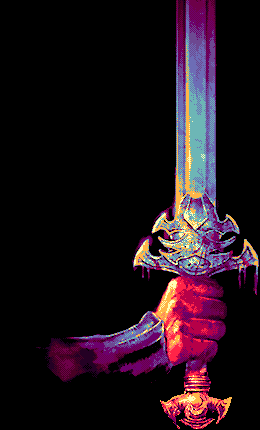
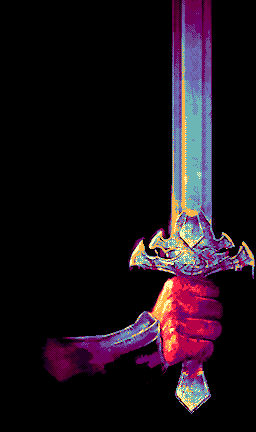
- Barbarian intro :  * aggressive optimization applied to the intro screen bitmaps (tiles budget was cut by half)  * added a title sprite using the famous Karafonts.

Changed region(s): [[0.1562, 0.0, 1.0, 0.9977]]

diff --git a/pirate_intro/src/easing_table.c b/pirate_intro/src/easing_table.c
@@ -1,0 +1,67 @@
+#include <genesis.h>
+
+const u16 easing_table[] =
+{
+	0, 	0, 	0, 	0, 	0, 	0, 	0, 	0, 	0, 	0, 	0, 	0, 	0, 	0, 	0, 	0, 	0, 	0, 
+	0, 	1, 	1, 	1, 	1, 	1, 	1, 	1, 	1, 	2, 	2, 	2, 	2, 	2, 	2, 	3, 	3, 
+	3, 	3, 	3, 	4, 	4, 	4, 	4, 	5, 	5, 	5, 	5, 	6, 	6, 	6, 	6, 	7, 	7, 
+	7, 	7, 	8, 	8, 	8, 	9, 	9, 	9, 	10, 	10, 	10, 	11, 	11, 	11, 	12, 	12, 	12, 
+	13, 	13, 	14, 	14, 	14, 	15, 	15, 	16, 	16, 	16, 	17, 	17, 	18, 	18, 	19, 	19, 	19, 
+	20, 	20, 	21, 	21, 	22, 	22, 	23, 	23, 	24, 	24, 	25, 	25, 	26, 	26, 	27, 	27, 	28, 
+	28, 	29, 	30, 	30, 	31, 	31, 	32, 	32, 	33, 	34, 	34, 	35, 	35, 	36, 	37, 	37, 	38, 
+	38, 	39, 	40, 	40, 	41, 	42, 	42, 	43, 	44, 	44, 	45, 	45, 	46, 	47, 	48, 	48, 	49, 
+	50, 	50, 	51, 	52, 	52, 	53, 	54, 	55, 	55, 	56, 	57, 	57, 	58, 	59, 	60, 	60, 	61, 
+	62, 	63, 	64, 	64, 	65, 	66, 	67, 	67, 	68, 	69, 	70, 	71, 	72, 	72, 	73, 	74, 	75, 
+	76, 	76, 	77, 	78, 	79, 	80, 	81, 	82, 	82, 	83, 	84, 	85, 	86, 	87, 	88, 	89, 	89, 
+	90, 	91, 	92, 	93, 	94, 	95, 	96, 	97, 	98, 	99, 	100, 	100, 	101, 	102, 	103, 	104, 	105, 
+	106, 	107, 	108, 	109, 	110, 	111, 	112, 	113, 	114, 	115, 	116, 	117, 	118, 	119, 	120, 	121, 	122, 
+	123, 	124, 	125, 	126, 	127, 	128, 	129, 	130, 	131, 	132, 	133, 	134, 	135, 	137, 	138, 	139, 	140, 
+	141, 	142, 	143, 	144, 	145, 	146, 	147, 	148, 	149, 	151, 	152, 	153, 	154, 	155, 	156, 	157, 	158, 
+	160, 	161, 	162, 	163, 	164, 	165, 	166, 	167, 	169, 	170, 	171, 	172, 	173, 	174, 	176, 	177, 	178, 
+	179, 	180, 	181, 	183, 	184, 	185, 	186, 	187, 	189, 	190, 	191, 	192, 	193, 	195, 	196, 	197, 	198, 
+	199, 	201, 	202, 	203, 	204, 	205, 	207, 	208, 	209, 	210, 	212, 	213, 	214, 	215, 	217, 	218, 	219, 
+	220, 	222, 	223, 	224, 	225, 	227, 	228, 	229, 	231, 	232, 	233, 	234, 	236, 	237, 	238, 	240, 	241, 
+	242, 	243, 	245, 	246, 	247, 	249, 	250, 	251, 	253, 	254, 	255, 	257, 	258, 	259, 	261, 	262, 	263, 
+	265, 	266, 	267, 	269, 	270, 	271, 	273, 	274, 	275, 	277, 	278, 	279, 	281, 	282, 	283, 	285, 	286, 
+	287, 	289, 	290, 	292, 	293, 	294, 	296, 	297, 	298, 	300, 	301, 	303, 	304, 	305, 	307, 	308, 	310, 
+	311, 	312, 	314, 	315, 	316, 	318, 	319, 	321, 	322, 	324, 	325, 	326, 	328, 	329, 	331, 	332, 	333, 
+	335, 	336, 	338, 	339, 	340, 	342, 	343, 	345, 	346, 	348, 	349, 	350, 	352, 	353, 	355, 	356, 	358, 
+	359, 	361, 	362, 	363, 	365, 	366, 	368, 	369, 	371, 	372, 	374, 	375, 	376, 	378, 	379, 	381, 	382, 
+	384, 	385, 	387, 	388, 	390, 	391, 	392, 	394, 	395, 	397, 	398, 	400, 	401, 	403, 	404, 	406, 	407, 
+	409, 	410, 	412, 	413, 	415, 	416, 	417, 	419, 	420, 	422, 	423, 	425, 	426, 	428, 	429, 	431, 	432, 
+	434, 	435, 	437, 	438, 	440, 	441, 	443, 	444, 	446, 	447, 	449, 	450, 	452, 	453, 	455, 	456, 	458, 
+	459, 	461, 	462, 	464, 	465, 	467, 	468, 	470, 	471, 	473, 	474, 	476, 	477, 	479, 	480, 	482, 	483, 
+	485, 	486, 	488, 	489, 	491, 	492, 	494, 	495, 	497, 	498, 	500, 	501, 	503, 	504, 	506, 	507, 	509, 
+	510, 	512, 	513, 	514, 	516, 	517, 	519, 	520, 	522, 	523, 	525, 	526, 	528, 	529, 	531, 	532, 	534, 
+	535, 	537, 	538, 	540, 	541, 	543, 	544, 	546, 	547, 	549, 	550, 	552, 	553, 	555, 	556, 	558, 	559, 
+	561, 	562, 	564, 	565, 	567, 	568, 	570, 	571, 	573, 	574, 	576, 	577, 	579, 	580, 	582, 	583, 	585, 
+	586, 	588, 	589, 	591, 	592, 	594, 	595, 	597, 	598, 	600, 	601, 	603, 	604, 	606, 	607, 	608, 	610, 
+	611, 	613, 	614, 	616, 	617, 	619, 	620, 	622, 	623, 	625, 	626, 	628, 	629, 	631, 	632, 	633, 	635, 
+	636, 	638, 	639, 	641, 	642, 	644, 	645, 	647, 	648, 	649, 	651, 	652, 	654, 	655, 	657, 	658, 	660, 
+	661, 	662, 	664, 	665, 	667, 	668, 	670, 	671, 	673, 	674, 	675, 	677, 	678, 	680, 	681, 	683, 	684, 
+	685, 	687, 	688, 	690, 	691, 	692, 	694, 	695, 	697, 	698, 	700, 	701, 	702, 	704, 	705, 	707, 	708, 
+	709, 	711, 	712, 	713, 	715, 	716, 	718, 	719, 	720, 	722, 	723, 	725, 	726, 	727, 	729, 	730, 	731, 
+	733, 	734, 	736, 	737, 	738, 	740, 	741, 	742, 	744, 	745, 	746, 	748, 	749, 	750, 	752, 	753, 	754, 
+	756, 	757, 	758, 	760, 	761, 	762, 	764, 	765, 	766, 	768, 	769, 	770, 	772, 	773, 	774, 	776, 	777, 
+	778, 	780, 	781, 	782, 	783, 	785, 	786, 	787, 	789, 	790, 	791, 	792, 	794, 	795, 	796, 	798, 	799, 
+	800, 	801, 	803, 	804, 	805, 	806, 	808, 	809, 	810, 	811, 	813, 	814, 	815, 	816, 	818, 	819, 	820, 
+	821, 	822, 	824, 	825, 	826, 	827, 	828, 	830, 	831, 	832, 	833, 	834, 	836, 	837, 	838, 	839, 	840, 
+	842, 	843, 	844, 	845, 	846, 	847, 	849, 	850, 	851, 	852, 	853, 	854, 	856, 	857, 	858, 	859, 	860, 
+	861, 	862, 	864, 	865, 	866, 	867, 	868, 	869, 	870, 	871, 	872, 	874, 	875, 	876, 	877, 	878, 	879, 
+	880, 	881, 	882, 	883, 	884, 	885, 	886, 	888, 	889, 	890, 	891, 	892, 	893, 	894, 	895, 	896, 	897, 
+	898, 	899, 	900, 	901, 	902, 	903, 	904, 	905, 	906, 	907, 	908, 	909, 	910, 	911, 	912, 	913, 	914, 
+	915, 	916, 	917, 	918, 	919, 	920, 	921, 	922, 	923, 	923, 	924, 	925, 	926, 	927, 	928, 	929, 	930, 
+	931, 	932, 	933, 	934, 	934, 	935, 	936, 	937, 	938, 	939, 	940, 	941, 	941, 	942, 	943, 	944, 	945, 
+	946, 	947, 	947, 	948, 	949, 	950, 	951, 	951, 	952, 	953, 	954, 	955, 	956, 	956, 	957, 	958, 	959, 
+	959, 	960, 	961, 	962, 	963, 	963, 	964, 	965, 	966, 	966, 	967, 	968, 	968, 	969, 	970, 	971, 	971, 
+	972, 	973, 	973, 	974, 	975, 	975, 	976, 	977, 	978, 	978, 	979, 	980, 	980, 	981, 	981, 	982, 	983, 
+	983, 	984, 	985, 	985, 	986, 	986, 	987, 	988, 	988, 	989, 	989, 	990, 	991, 	991, 	992, 	992, 	993, 
+	993, 	994, 	995, 	995, 	996, 	996, 	997, 	997, 	998, 	998, 	999, 	999, 	1000, 	1000, 	1001, 	1001, 	1002, 
+	1002, 	1003, 	1003, 	1004, 	1004, 	1004, 	1005, 	1005, 	1006, 	1006, 	1007, 	1007, 	1007, 	1008, 	1008, 	1009, 	1009, 
+	1009, 	1010, 	1010, 	1011, 	1011, 	1011, 	1012, 	1012, 	1012, 	1013, 	1013, 	1013, 	1014, 	1014, 	1014, 	1015, 	1015, 
+	1015, 	1016, 	1016, 	1016, 	1016, 	1017, 	1017, 	1017, 	1017, 	1018, 	1018, 	1018, 	1018, 	1019, 	1019, 	1019, 	1019, 
+	1020, 	1020, 	1020, 	1020, 	1020, 	1021, 	1021, 	1021, 	1021, 	1021, 	1021, 	1022, 	1022, 	1022, 	1022, 	1022, 	1022, 
+	1022, 	1022, 	1023, 	1023, 	1023, 	1023, 	1023, 	1023, 	1023, 	1023, 	1023, 	1023, 	1023, 	1023, 	1023, 	1023, 	1023, 
+	1023, 	1023, 	1023, 
+};
+

diff --git a/pirate_intro/src/barb_picture.c b/pirate_intro/src/barb_picture.c
@@ -10,6 +10,7 @@ extern u8 framerate;
 void displayBarbPictureFX(void)
 {
 	u16 fx_phase, j, scroll_A_y, scroll_B_y;
+	static 	Sprite *sprites[16];
 
 	SYS_disableInts();
 
@@ -18,14 +19,18 @@ void displayBarbPictureFX(void)
 
 	/* Set a larger tileplan to be able to scroll */
 	VDP_setPlanSize(64, 64);
+	VDP_setHilightShadow(0); 
+	SPR_init(16,180,128);
 
-	// SPR_init(1, 1, 1);
+	vramIndex = 8;
+
+	sprites[0] = SPR_addSprite(&masiaka_title, (320 - 240) >> 1, 256, TILE_ATTR_FULL(PAL2, TRUE, FALSE, FALSE, 0));
 
 	/* Draw the foreground */
-	VDP_drawImageEx(PLAN_A, &barb_pic_front, TILE_ATTR_FULL(PAL0, FALSE, FALSE, FALSE, vramIndex), 0, 0, FALSE, TRUE);
-	vramIndex += barb_pic_front.tileset->numTile;
 	VDP_drawImageEx(PLAN_B, &barb_pic_back, TILE_ATTR_FULL(PAL1, FALSE, FALSE, FALSE, vramIndex), 0, 0, FALSE, TRUE);
 	vramIndex += barb_pic_back.tileset->numTile;
+	VDP_drawImageEx(PLAN_A, &barb_pic_front, TILE_ATTR_FULL(PAL0, FALSE, FALSE, FALSE, vramIndex), 0, 0, FALSE, TRUE);
+	vramIndex += barb_pic_front.tileset->numTile;
 
 	VDP_setScrollingMode(HSCROLL_PLANE, VSCROLL_PLANE);
 
@@ -34,8 +39,14 @@ void displayBarbPictureFX(void)
 
 	SYS_enableInts();
 
+	DMA_waitCompletion();
+
+	SPR_update(sprites, 1);
+
 	// VDP_fadePalTo(PAL1, barb_pic_back.palette->data, 16, TRUE);
 	// RSE_pause(16);
+	// VDP_fadePalTo(PAL2, masiaka_title.palette->data, 2, FALSE);
+
 	VDP_fadePalTo(PAL1, palette_white, RSE_FRAMES(8), TRUE);
 	RSE_pause(8);
 	VDP_fadePalTo(PAL1, barb_pic_back.palette->data, RSE_FRAMES(16), TRUE);
@@ -45,7 +56,7 @@ void displayBarbPictureFX(void)
 	// RSE_pause(16);
 
 	fx_phase = 0;
-	while(fx_phase < 256) // (vball_phase < VBALL_PHASE_QUIT)
+	while(fx_phase < 256)
 	{
 		VDP_waitVSync();
 		j = easing_table[fx_phase << 2];
@@ -56,14 +67,45 @@ void displayBarbPictureFX(void)
 		VDP_setVerticalScroll(PLAN_A, scroll_A_y);
 		VDP_setVerticalScroll(PLAN_B, scroll_B_y);
 
-		if (fx_phase == 256 - 64)
+		if (fx_phase == 256 - 64 - 16)
 			VDP_fadePalTo(PAL0, palette_white, RSE_FRAMES(8), TRUE);
-		if (fx_phase == 256 - 56)
-			VDP_fadePalTo(PAL0, barb_pic_front.palette->data, RSE_FRAMES(8), TRUE);		
+		if (fx_phase == 256 - 56 - 16)
+			VDP_fadePalTo(PAL0, barb_pic_front.palette->data, RSE_FRAMES(8), TRUE);
+
+		if (fx_phase >= 256 - 64)
+		{
+			if (fx_phase == 256 - 64)
+				VDP_fadePalTo(PAL2, palette_white, RSE_FRAMES(8), TRUE);
+
+			if (fx_phase == 256 - (64 - 12))
+				VDP_fadePalTo(PAL2, masiaka_title.palette->data, RSE_FRAMES(32), TRUE);
+
+			j = fx_phase - (256 - 64);
+
+			SPR_setPosition(sprites[0], (320 - 240) >> 1, ((224 - 48) >> 1) - ((easing_table[j << 4] >> 5) - 16));
+			SPR_update(sprites, 1);
+		}		
 
 		fx_phase++;
 		// BMP_showFPS(0);
 	}
+
+	// VDP_fadePalTo(PAL2, palette_white, RSE_FRAMES(8), TRUE);
+
+	// fx_phase = 0;
+	// j = 0;
+	// while(fx_phase < 64)
+	// {
+	// 	VDP_waitVSync();
+	// 	j = (easing_table[fx_phase << 4] >> 5) - 32;
+
+	// 	SPR_setPosition(sprites[0], (320 - 240) >> 1, ((224 - 48) >> 1) - j);
+	// 	SPR_update(sprites, 1);
+	// 	fx_phase++;
+
+	// 	if (fx_phase == 16)
+	// 		VDP_fadePalTo(PAL2, masiaka_title.palette->data, RSE_FRAMES(32), TRUE);
+	// }
 
 	RSE_pause(4 * 60);
 

diff --git a/pirate_intro/src/res/gfx.h b/pirate_intro/src/res/gfx.h
@@ -3,6 +3,7 @@
 
 extern const Image barb_pic_back;
 extern const Image barb_pic_front;
+extern const SpriteDefinition masiaka_title;
 extern const SpriteDefinition ball_metal;
 extern const SpriteDefinition ball_shadow;
 extern const Image checkboard;
